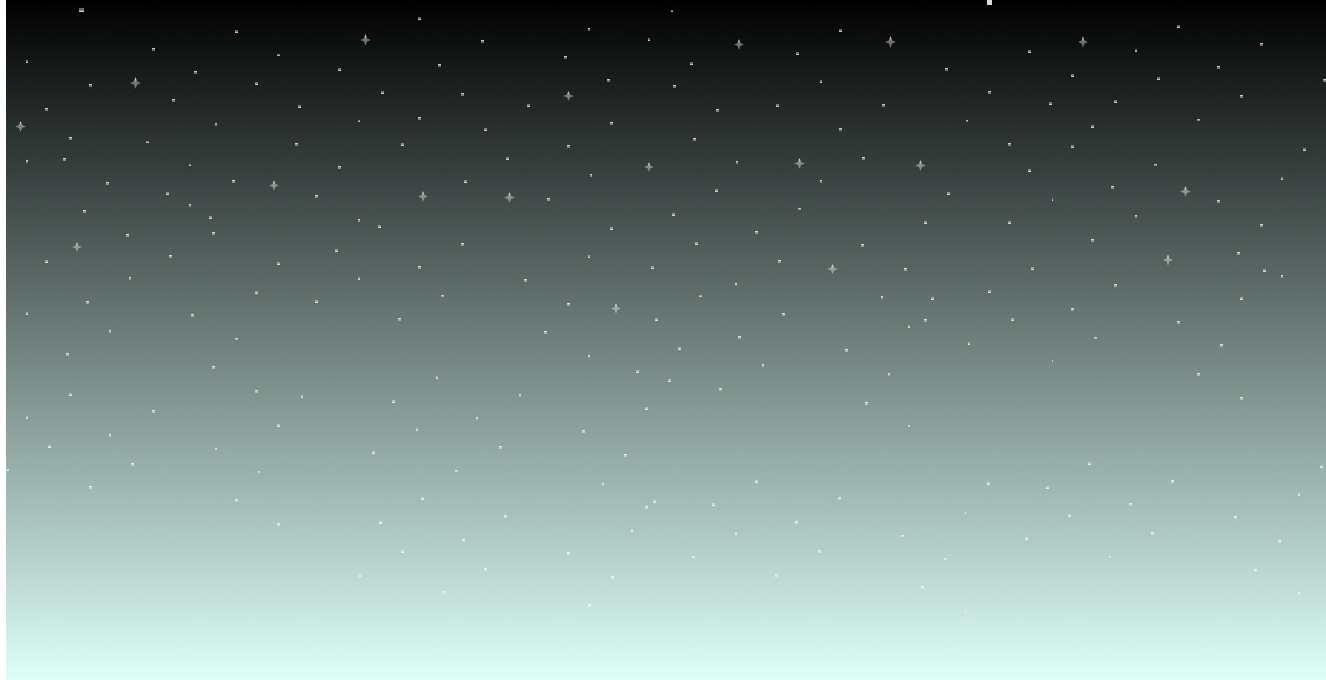
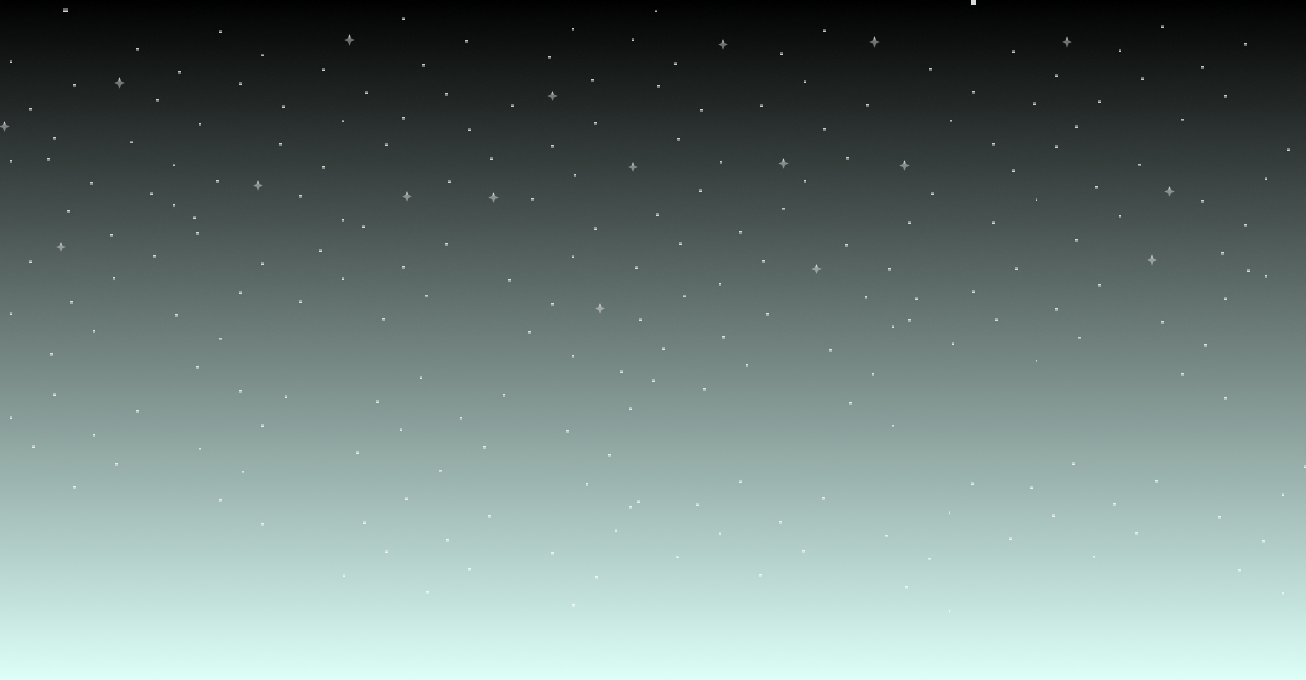
Adding background and player movement level 04

Changed region(s): [[0.0, 0.0, 0.0306, 1.0]]

diff --git a/level4.py b/level4.py
@@ -1,5 +1,9 @@
 import pygame
 import time
+import math
+import player as player_mod
+
+from level2 import clock
 
 # Initializing Pygame
 pygame.init()
@@ -15,9 +19,12 @@ WIDTH, HEIGHT = 1320, 680
 screen = pygame.display.set_mode((WIDTH, HEIGHT))
 pygame.display.set_caption("Level - 04")
 
+clock = pygame.time.Clock()
+FPS = 60
+
 #Screen background
-background_image = pygame.image.load('./level04/background-sky.png')
-background_image = pygame.transform.scale(background_image, (WIDTH, HEIGHT))
+background_image = pygame.image.load('./level04/background-sky.png').convert()
+bg_w= background_image.get_width()
 
 # Defining fonts
 font = pygame.font.Font(None, 100)
@@ -32,6 +39,8 @@ background_sound.set_volume(0.5)  # Define o volume para 50%
 background_sound.play()
 
 # Defining game variables
+tiles = math.ceil(WIDTH / bg_w) + 1
+scroll_bg = 0
 total_planks = 45
 crossed_planks = 0
 errors = 0
@@ -42,6 +51,11 @@ bridge_stability = 100  # The percentage of stability of the bridge
 error_time = None  # Time when an error occurs
 error_color_duration = 2  # Duration in seconds to show the red color
 
+# Player animations
+moving_sprites = pygame.sprite.Group()
+player = player_mod.Player(WIDTH/2 - 65, 370)
+moving_sprites.add(player)
+
 def create_letter_row():
     with open('level04\LetterRow.txt', 'r') as file:
         letter_row = [line.rstrip('\n').replace("'", "") for line in file]
@@ -50,7 +64,7 @@ def create_letter_row():
 letter_row = create_letter_row()
 
 # Positions of the planks
-plank_positions = [( 20 + i * 69, HEIGHT // 2 + 200) for i in range(total_planks)]
+plank_positions = [( i * 69, HEIGHT // 2 + 200) for i in range(total_planks)]
 
 # Player's starting position
 player_position = [plank_positions[0][0], plank_positions[0][1] - 200]  # Starts on the first plank
@@ -67,13 +81,14 @@ def draw_bridge(offset_x, stability_y):
 
 # Function to jump animation
 def player_jump(target_x, target_y, offset_x, stability_y):
+    global scroll_bg
     jump_peak = -100  # Altura máxima do pulo (negativo para subir)
     jump_duration = 10  # Duração total do pulo (número de frames)
 
     start_x, start_y = player_position[0] , player_position[1]
 
     # Se o jogador está próximo do final da tela, altera o comportamento
-    if player_position[0] > WIDTH - 175:
+    if player_position[0] > WIDTH - 300:
         for i in range(jump_duration):
             # Progresso do pulo de 0 a 1
             t = i / jump_duration
@@ -83,7 +98,13 @@ def player_jump(target_x, target_y, offset_x, stability_y):
 
             # Desenha o estado atual do jogo para cada frame do pulo
             screen.fill(BLACK)
-            screen.blit(background_image, (0, 0))
+            for i in range(0, tiles):
+                screen.blit(background_image, (i * bg_w + scroll_bg, 0))
+            # Scroll background
+            scroll_bg -= 1
+            # Reset scroll
+            if abs(scroll_bg) > bg_w:
+                scroll_bg = 0
             draw_bridge(offset_x, stability_y)
             draw_game_state(offset_x, stability_y)
             pygame.display.flip()
@@ -103,23 +124,28 @@ def player_jump(target_x, target_y, offset_x, stability_y):
 
             # Desenha o estado atual do jogo para cada frame do pulo
             screen.fill(BLACK)
-            screen.blit(background_image, (0, 0))
+            for i in range(0, tiles):
+                screen.blit(background_image, (i * bg_w + scroll_bg, 0))
+            # Scroll background
+            scroll_bg -= 1
+            # Reset scroll
+            if abs(scroll_bg) > bg_w:
+                scroll_bg = 0
             draw_bridge(offset_x, stability_y)
             draw_game_state(offset_x, stability_y)
             pygame.display.flip()
             pygame.time.delay(20)
 
-
 # Function to draw the player state
 def draw_game_state(offset_x, stability_y):
-    global bridge_stability, error_time
+    global bridge_stability, error_time,player,player_position
 
     # Draw the player
-    player = pygame.transform.scale(pygame.image.load('./level04/ALMA_WALKING1.png').convert_alpha(), (112, 200))
-    screen.blit(player, (player_position[0] + offset_x - 37, player_position[1] + stability_y + 45))
+    player_img = pygame.transform.scale(player.image, (112, 200))
+    screen.blit(player_img, (player_position[0] + offset_x - 37, player_position[1] + stability_y + 45))
 
     # Draw level
-    level_text = normal_font.render(f'Level 1', True, WHITE)
+    level_text = normal_font.render(f'Level 4', True, WHITE)
     screen.blit(level_text, (WIDTH//2 - 50, 20))
 
     # Draw row of letters (next letter in center)
@@ -147,14 +173,23 @@ def draw_game_state(offset_x, stability_y):
 
 # Game loop
 def game_loop():
-    global letter_row, crossed_planks, errors, start_time, bridge_stability, player_position, error_time
+    global letter_row, crossed_planks, errors, start_time, bridge_stability, player_position, error_time,scroll_bg,tiles,bg_w, FPS, clock, player
     running = True
     offset_x = 0  # Screen scroll control
     stability_y = 0
 
     while running:
+        clock.tick(FPS)
         screen.fill(BLACK)
-        screen.blit(background_image, (0, 0))
+        for i in range(0,tiles):
+            screen.blit(background_image, (i * bg_w + scroll_bg, 0))
+
+        # Scroll background
+        scroll_bg -= 1
+
+        # Reset scroll
+        if abs(scroll_bg) > bg_w:
+            scroll_bg = 0
 
         # Draw bridge and game state with offset
         draw_bridge(offset_x, stability_y)
@@ -177,8 +212,8 @@ def game_loop():
                         player_jump(plank_positions[crossed_planks][0] + 12, plank_positions[crossed_planks][1] - 200 + 45, offset_x, stability_y)
 
                     # Move the bridge
-                    if player_position[0] > WIDTH - 175:
-                        offset_x = WIDTH - 175 - player_position[0]
+                    if player_position[0] > WIDTH - 300:
+                        offset_x = WIDTH - 300 - player_position[0]
                 else:
                     # Incorrect letter, bridge gives a little
                     errors += 1
@@ -209,13 +244,17 @@ def game_loop():
         # Check if the player crossed all the boards
         if crossed_planks >= total_planks:
             # Move the player to the floor
-            player_position[0] += 5  # Keep moving right
+            player_position[0] += 5
+            player.animate()
+        else:
+            player.stopAnimating()
 
-            if player_position[0] > WIDTH:  # If the player has already left the screen
-                running = False  # End the game
+        if player_position[0] > WIDTH:  # If the player has already left the screen
+            running = False  # End the game
 
+        moving_sprites.update(0.25)
         pygame.display.flip()
-        pygame.time.delay(100)
+        pygame.display.update()
 
     pygame.quit()
 
